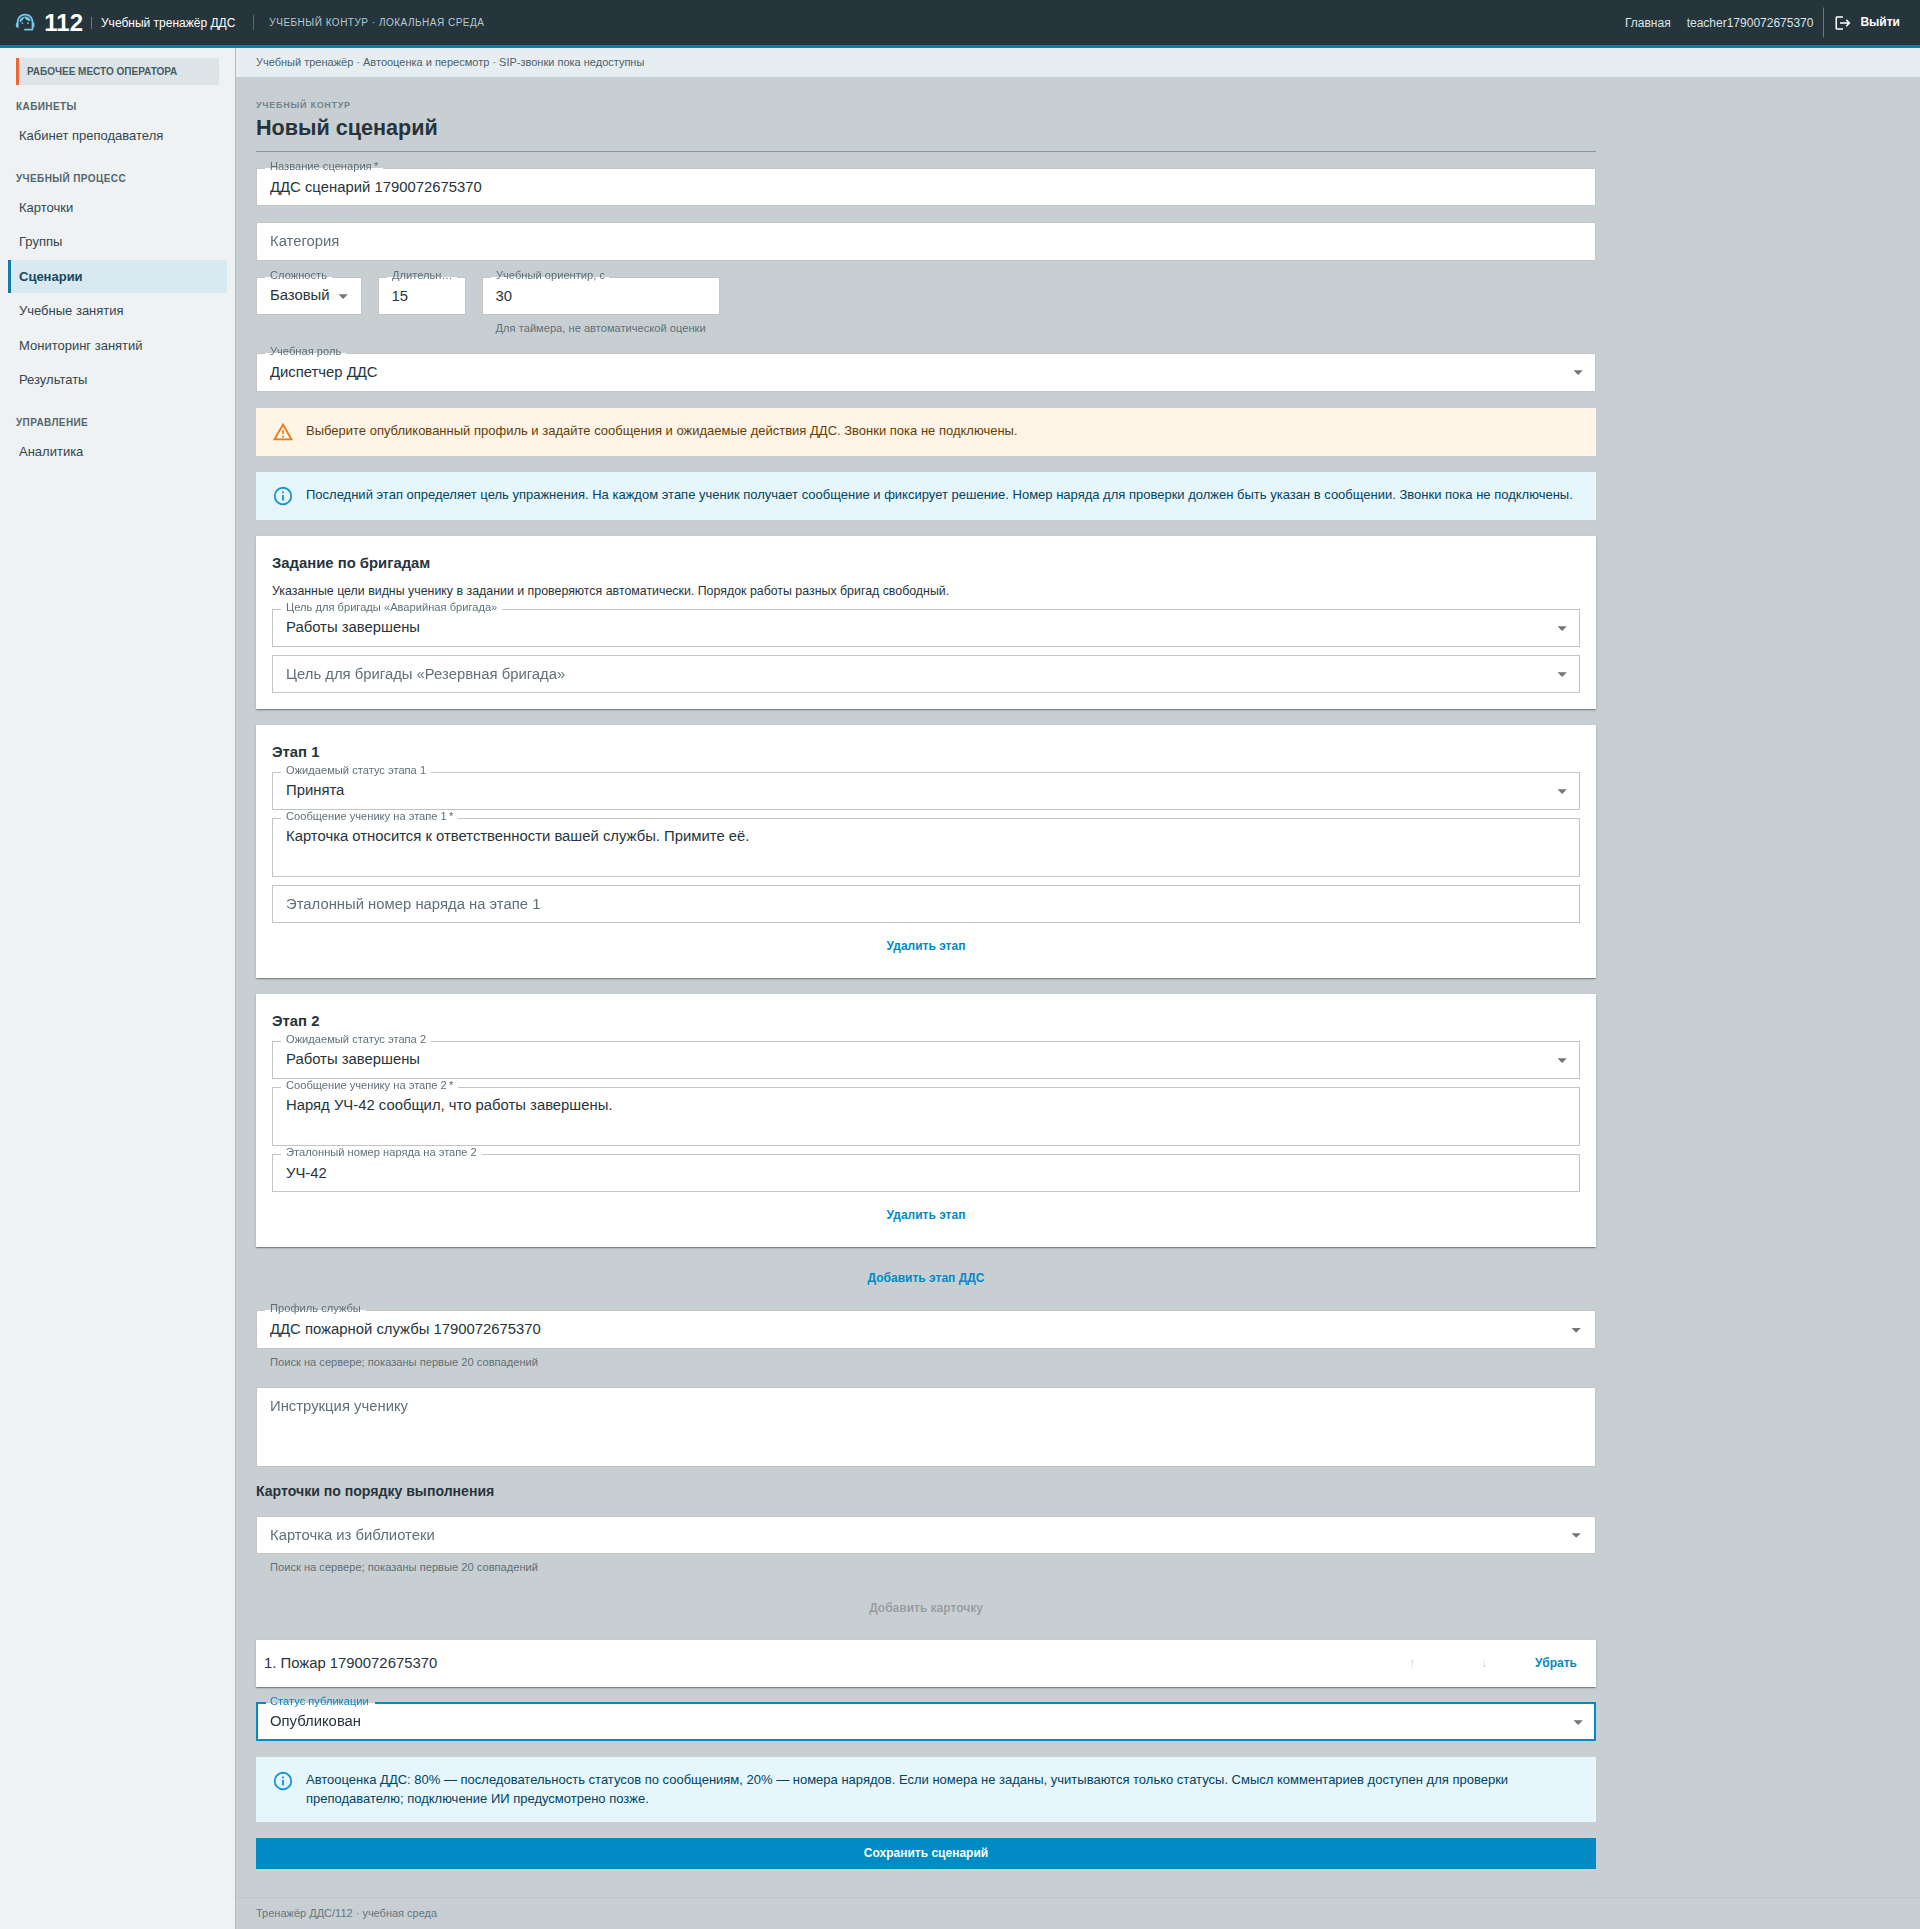
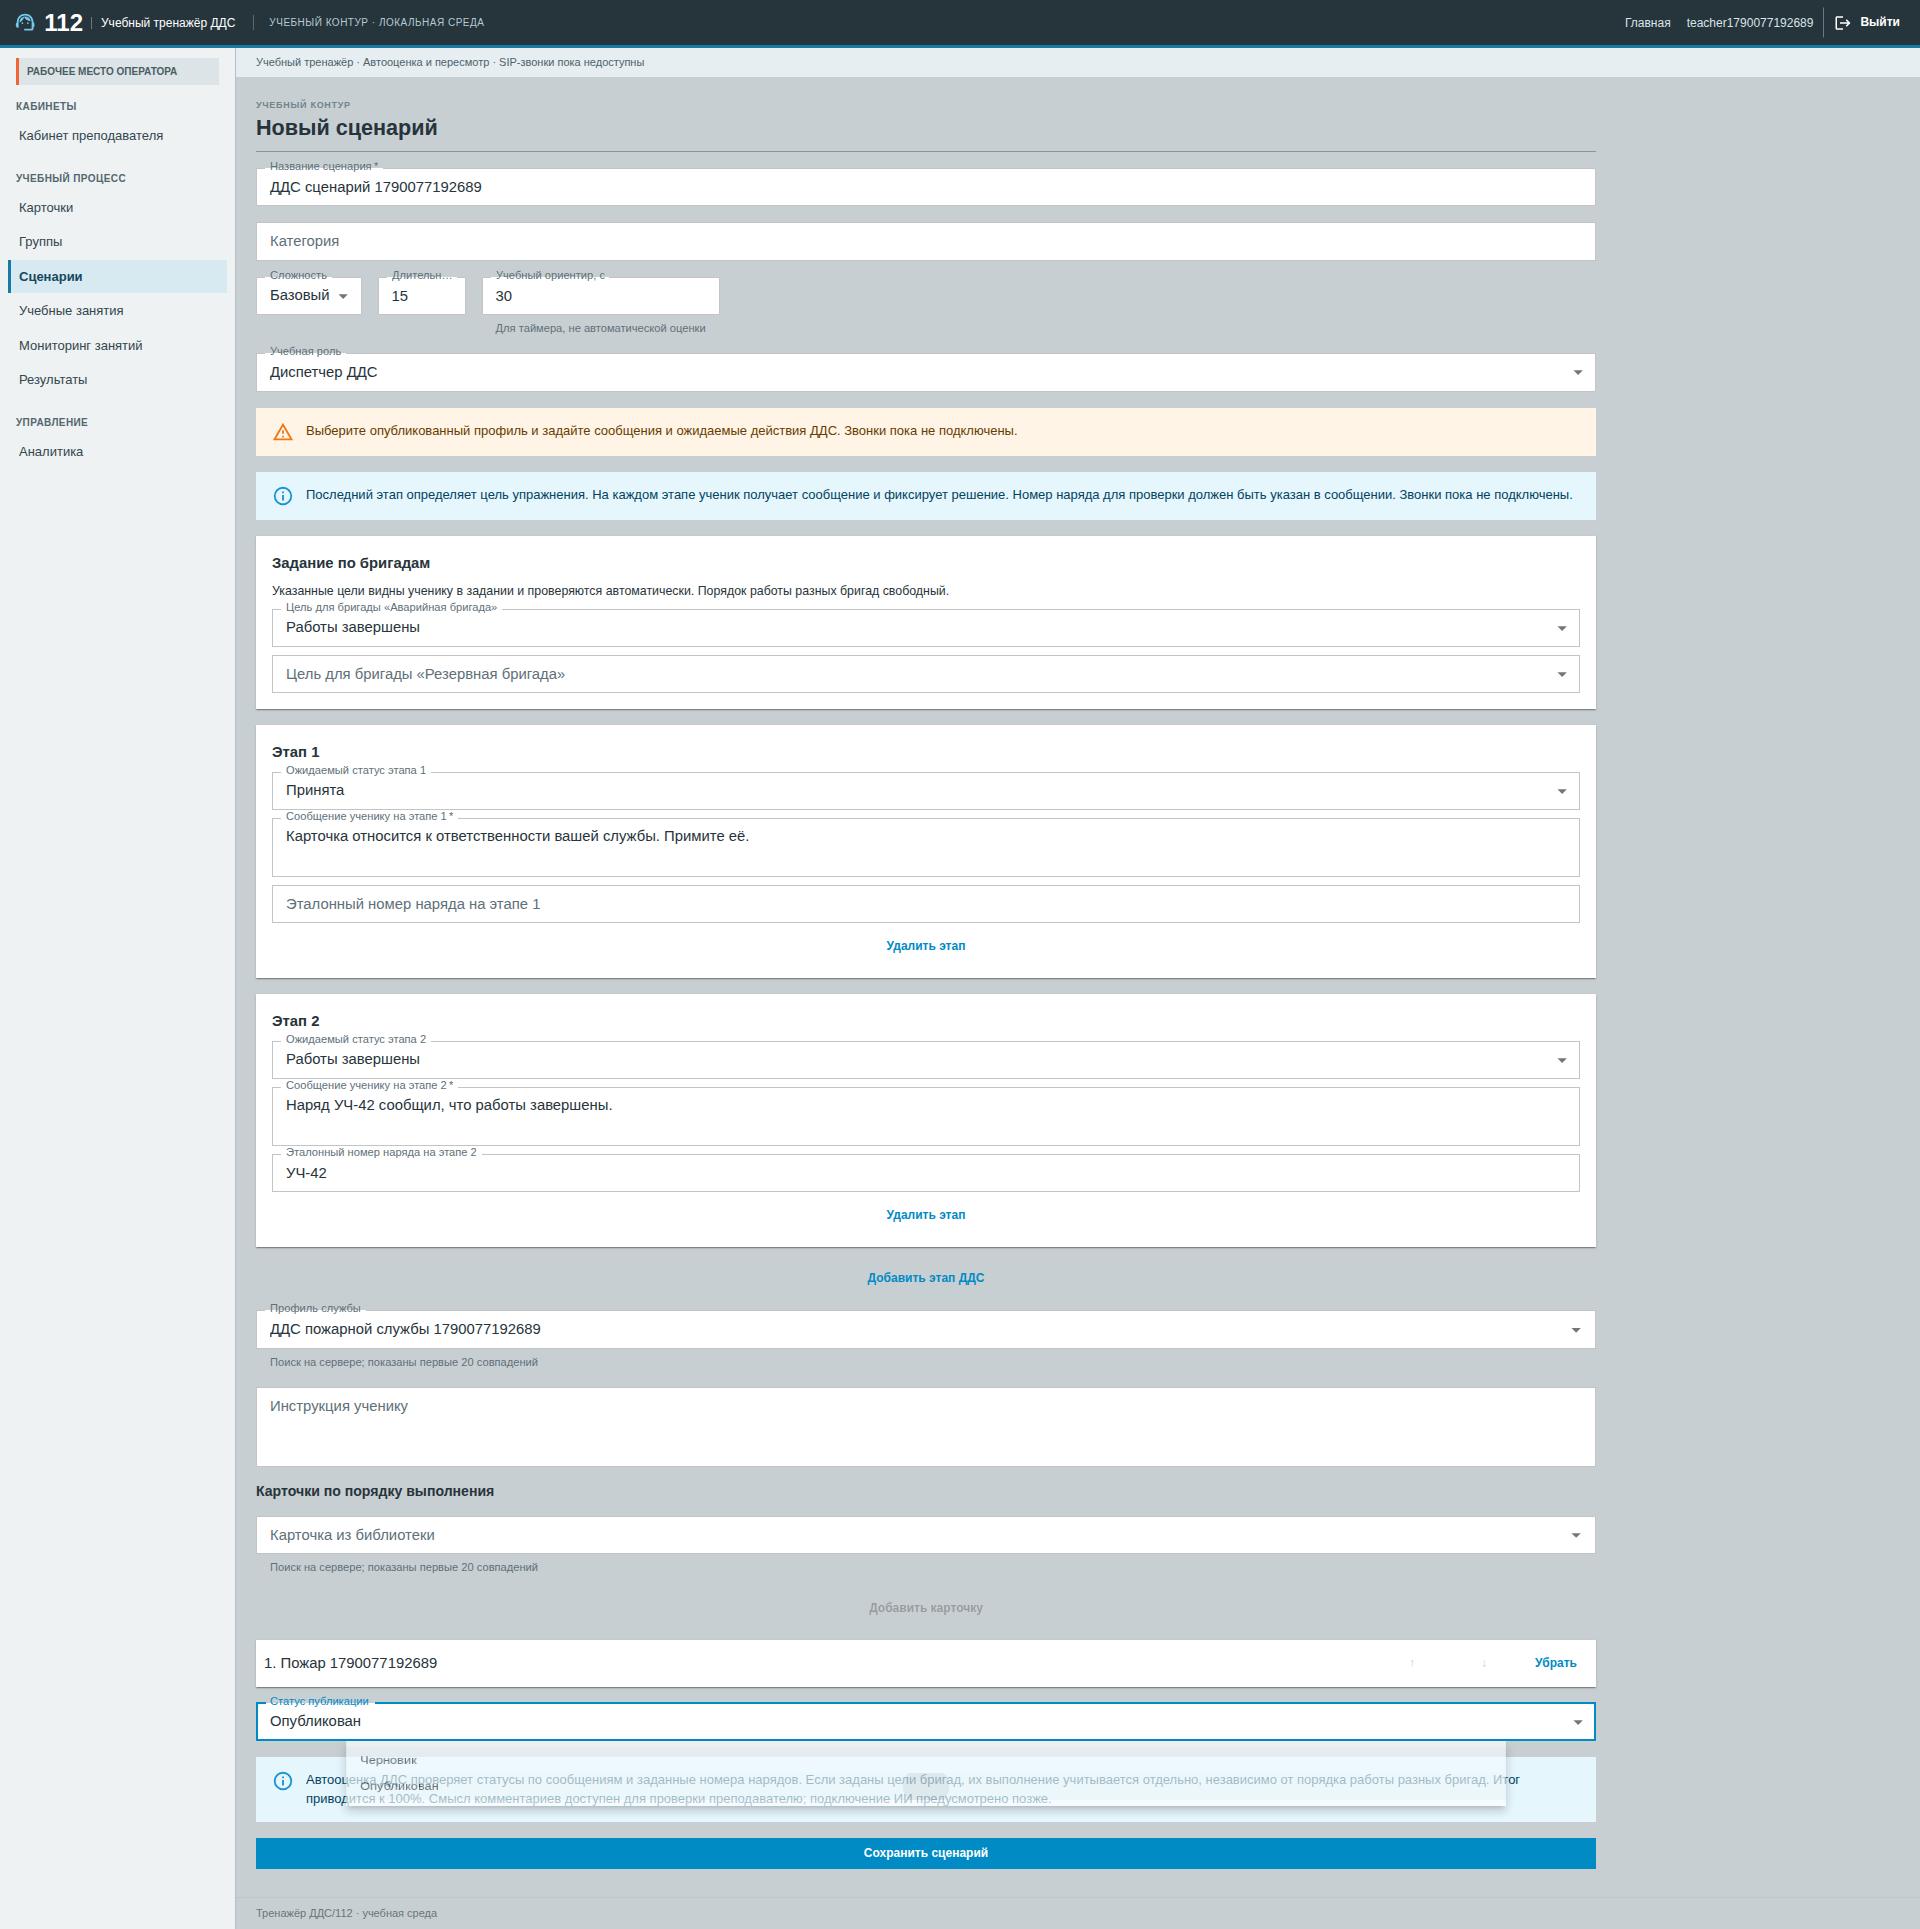
fix: explain crew goals in DDS grading guidance

Changed region(s): [[0.1562, 0.8709, 0.7812, 0.9642], [0.25, 0.6843, 0.2812, 0.7154], [0.2188, 0.0933, 0.25, 0.1244]]

diff --git a/112-frontend/src/pages/scenario-editor/ui/ScenarioEditorPage.tsx b/112-frontend/src/pages/scenario-editor/ui/ScenarioEditorPage.tsx
@@ -294,8 +294,9 @@ function Editor({ initial }: EditorProps) {
       </TextField>
       {form.role === "dds" ? (
         <Alert severity="info">
-          Автооценка ДДС: 80% — последовательность статусов по сообщениям, 20% —
-          номера нарядов. Если номера не заданы, учитываются только статусы.
+          Автооценка ДДС проверяет статусы по сообщениям и заданные номера
+          нарядов. Если заданы цели бригад, их выполнение учитывается отдельно,
+          независимо от порядка работы разных бригад. Итог приводится к 100%.
           Смысл комментариев доступен для проверки преподавателю; подключение ИИ
           предусмотрено позже.
         </Alert>
